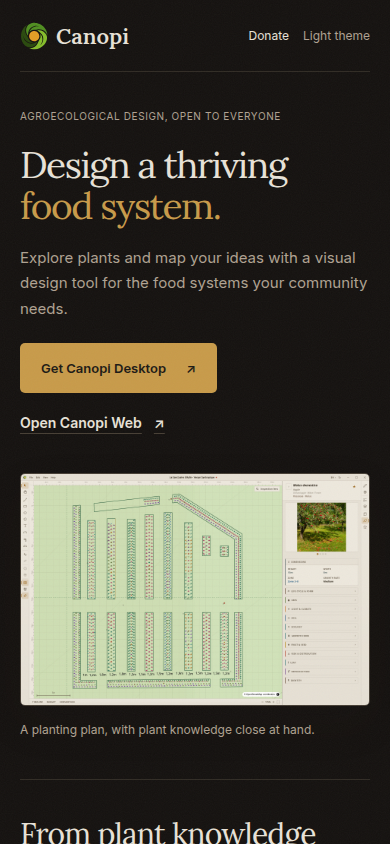
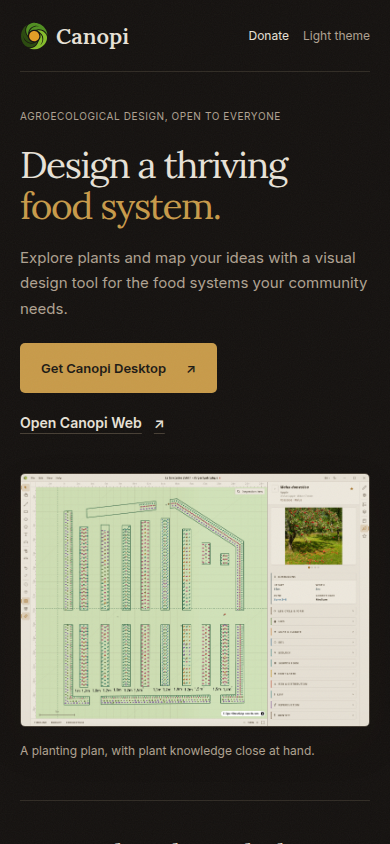
docs: refresh proposal with polished orchard capture

Changed region(s): [[0.0308, 0.5545, 0.9538, 0.9242], [0.0615, 0.955, 0.8308, 1.0], [0.9231, 0.5853, 0.9538, 0.6469]]

diff --git a/docs/design-proposal/index.html b/docs/design-proposal/index.html
@@ -24,7 +24,7 @@
         <p class="lead">Explore plants and map your ideas with a visual design tool for the food systems your community needs.</p>
         <div class="actions"><a class="button primary" href="#editions">Get Canopi Desktop <span aria-hidden="true">↗</span></a><a class="text-link" href="https://web.projectcanopi.com/">Open Canopi Web <span aria-hidden="true">↗</span></a></div>
       </div>
-      <figure class="product"><a href="orchard-screenshot.png" aria-label="View full Canopi app screenshot"><img src="orchard-screenshot.png" width="1836" height="1216" alt="Canopi showing a syntropic orchard plan with diverse planting rows and spacing measurements beside an apple tree profile."></a><figcaption>A planting plan, with plant knowledge close at hand.</figcaption></figure>
+      <figure class="product"><a href="orchard-screenshot.png" aria-label="View full Canopi app screenshot"><img src="orchard-screenshot.png" width="1570" height="1135" alt="Canopi showing a syntropic orchard plan with diverse planting rows and spacing measurements beside an apple tree profile."></a><figcaption>A planting plan, with plant knowledge close at hand.</figcaption></figure>
     </section>
     <section class="workflow wrap" aria-labelledby="workflow-title">
       <h2 id="workflow-title">From plant knowledge<br>to a plan for your land.</h2>
